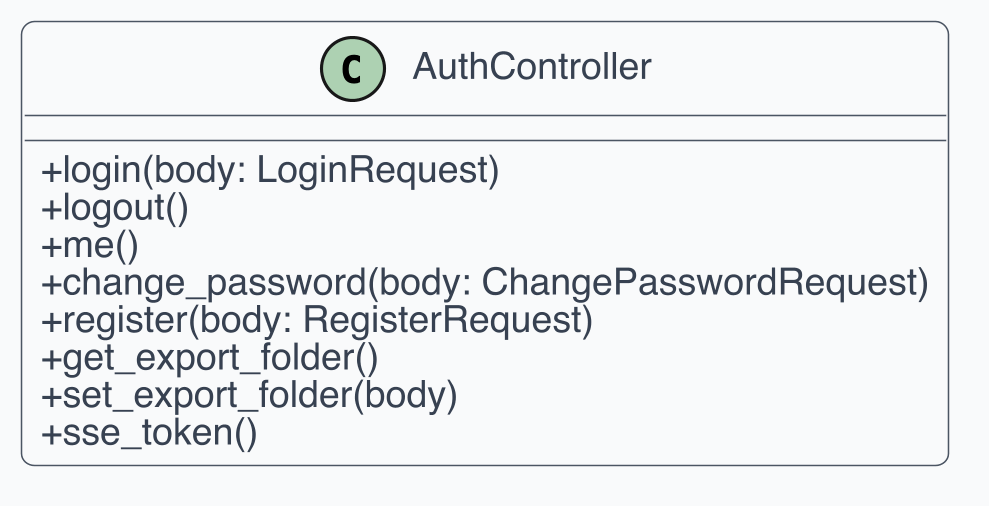
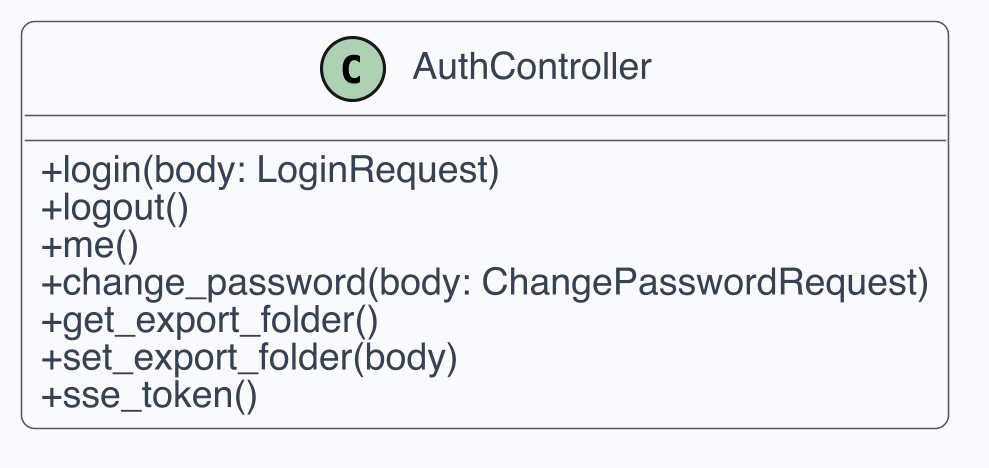
Update Specifica Tecnica
Redatto da:
- @samuele-perozzo
Verificato da:
- @towsatt

Changed region(s): [[0.0, 0.0299, 0.9707, 0.9274]]

diff --git a/src/PB/Documentazione Esterna/Contenuti/componenti_specifiche_tecniche/backend_l4_controllers.tex b/src/PB/Documentazione Esterna/Contenuti/componenti_specifiche_tecniche/backend_l4_controllers.tex
@@ -11,7 +11,6 @@
     \item \texttt{logout()}: invalida la sessione autenticata corrente cancellando i cookie.
     \item \texttt{me()}: restituisce i dati dell'utente correntemente autenticato.
     \item \texttt{change\_password(body: ChangePasswordRequest)}: gestisce il flusso di aggiornamento credenziali.
-    \item \texttt{register(body: RegisterRequest)}: permette la registrazione di un nuovo cliente.
     \item \texttt{get\_export\_folder()}: recupera la cartella di esportazione configurata dall'operatore.
     \item \texttt{set\_export\_folder(body)}: imposta o aggiorna la cartella di esportazione dell'operatore.
     \item \texttt{sse\_token()}: restituisce il JWT dal cookie HTTPOnly per connessioni SSE dirette.
@@ -174,21 +173,6 @@
     \caption{UML della classe \texttt{ProductController}.}
 \end{figure}
 
-\paragraph{RegisterController}
-\textbf{Descrizione della classe:} gestisce la registrazione di nuovi account clienti e operatori.
-
-\textbf{Descrizione degli attributi:} nessun attributo di stato esplicitato nel diagramma (controller stateless).
-
-\textbf{Descrizione dei metodi:}
-\begin{itemize}
-    \item \texttt{register(body: RegisterRequest)}: registra un nuovo utente delegando la logica ad AuthService.
-\end{itemize}
-
-\begin{figure}[H]
-    \centering
-    \includegraphics[width=0.62\textwidth]{uml_backend/10_registercontroller.png}
-    \caption{UML della classe \texttt{RegisterController}.}
-\end{figure}
 
 \paragraph{SSEController}
 \textbf{Descrizione della classe:} gestisce le connessioni Server-Sent Events per le notifiche in streaming verso client e operatori.

diff --git a/src/PB/Documentazione Esterna/Specifica_Tecnica_v0.8.tex b/src/PB/Documentazione Esterna/Specifica_Tecnica_v0.8.tex
@@ -111,7 +111,7 @@
 
     {\large Data: 2026-04-09 \par}
 
-    {\Large Versione: 0.7\par}
+    {\Large Versione: 0.8\par}
 
 \end{titlepage}
 
@@ -130,6 +130,7 @@
             \toprule
             \textbf{Versione} & \textbf{Data} & \textbf{Autore/i} & \textbf{Descrizione delle Modifiche}                           & \textbf{Verificatore} \\
             \midrule
+            0.8               & 2026-04-09    & Samuele Perozzo & Correzioni finali & Leonardo Bilato \\
             0.7               & 2026-04-09    & G. Ponso, S. Perozzo, F. Zanella  & Raffinamento dell'architettura di dettaglio: standardizzazione della nomenclatura (API/Backend), ottimizzazione dello strato di Dominio e consolidamento degli stati di sessione lato Frontend. Aggiornamento contestuale di tutti i diagrammi UML. & Leonardo Bilato       \\
             0.6               & 2026-04-08    & Davide Biasuzzi   & Aggiornamento dello stato di implementazione dei requisiti e allineamento alla rimozione di un requisito & Leonardo Bilato       \\
             0.5               & 2026-04-04    & Francesco Zanella   & Raffinamento dell'architettura (Backend e Frontend) per ottimizzare flussi asincroni e separazione dei servizi; approfondimento analitico della sezione Database. Aggiornato tabella requisiti & Leonardo Bilato       \\

diff --git a/src/PB/Documentazione Esterna/Contenuti/componenti_specifiche_tecniche/frontend_l4_services.tex b/src/PB/Documentazione Esterna/Contenuti/componenti_specifiche_tecniche/frontend_l4_services.tex
@@ -91,7 +91,7 @@
     \item \texttt{getPlatformUsageOverview(days)}: metriche aggregate per la dashboard operatore.
     \item \texttt{lockTicket(ticketId)}: presa in carico ticket (operatore).
     \item \texttt{unlockTicket(ticketId)}: rilascio lock senza chiusura.
-    \item \texttt{closeTicket(ticketId)}: chiusura ticket (operatore).
+    \item \texttt{closeTicket(ticketId, closedBy?)}: chiusura ticket (operatore).
     \item \texttt{openTicket(sessionId)}: apertura ticket dal lato cliente.
     \item \texttt{getTicketBySession(sessionId)}: recupera ticket corrente per sessione (cliente).
     \item \texttt{closeTicketBySession(sessionId)}: chiusura ticket dal lato cliente.

diff --git a/src/PB/Documentazione Esterna/Contenuti/componenti_specifiche_tecniche/backend_l4_ports.tex b/src/PB/Documentazione Esterna/Contenuti/componenti_specifiche_tecniche/backend_l4_ports.tex
@@ -9,7 +9,6 @@
 \begin{itemize}
     \item \texttt{find\_by\_email(email: str)}: recupera l'utente associato all'email.
     \item \texttt{find\_by\_id(user\_id: int)}: recupera l'utente per ID.
-    \item \texttt{create\_user(email, password\_hash, password\_salt, role, cod\_cli)}: crea un nuovo utente.
     \item \texttt{update\_password(user\_id, password\_hash, password\_salt)}: aggiorna hash e salt della password.
     \item \texttt{get\_client\_info(cod\_cli: int)}: recupera ragione sociale e dati del cliente.
     \item \texttt{search\_clients(query: str, limit: int)}: cerca clienti per ragione sociale o codice.

diff --git a/src/PB/Documentazione Esterna/Contenuti/componenti_specifiche_tecniche/backend_l4_services.tex b/src/PB/Documentazione Esterna/Contenuti/componenti_specifiche_tecniche/backend_l4_services.tex
@@ -14,7 +14,6 @@
     \item \texttt{verify\_jwt(token: str)}: verifica e decodifica un JWT. Ritorna il payload o None.
     \item \texttt{get\_profile(user\_id: int)}: recupera profilo utente specifico.
     \item \texttt{change\_password(...)}: sostituisce l'impronta della password nel database.
-    \item \texttt{register(...)}: registra un nuovo account permanente.
     \item \texttt{get\_export\_folder(user\_id: int)}: recupera la cartella di esportazione.
     \item \texttt{set\_export\_folder(user\_id: int, path)}: salva la cartella di esportazione.
 \end{itemize}
